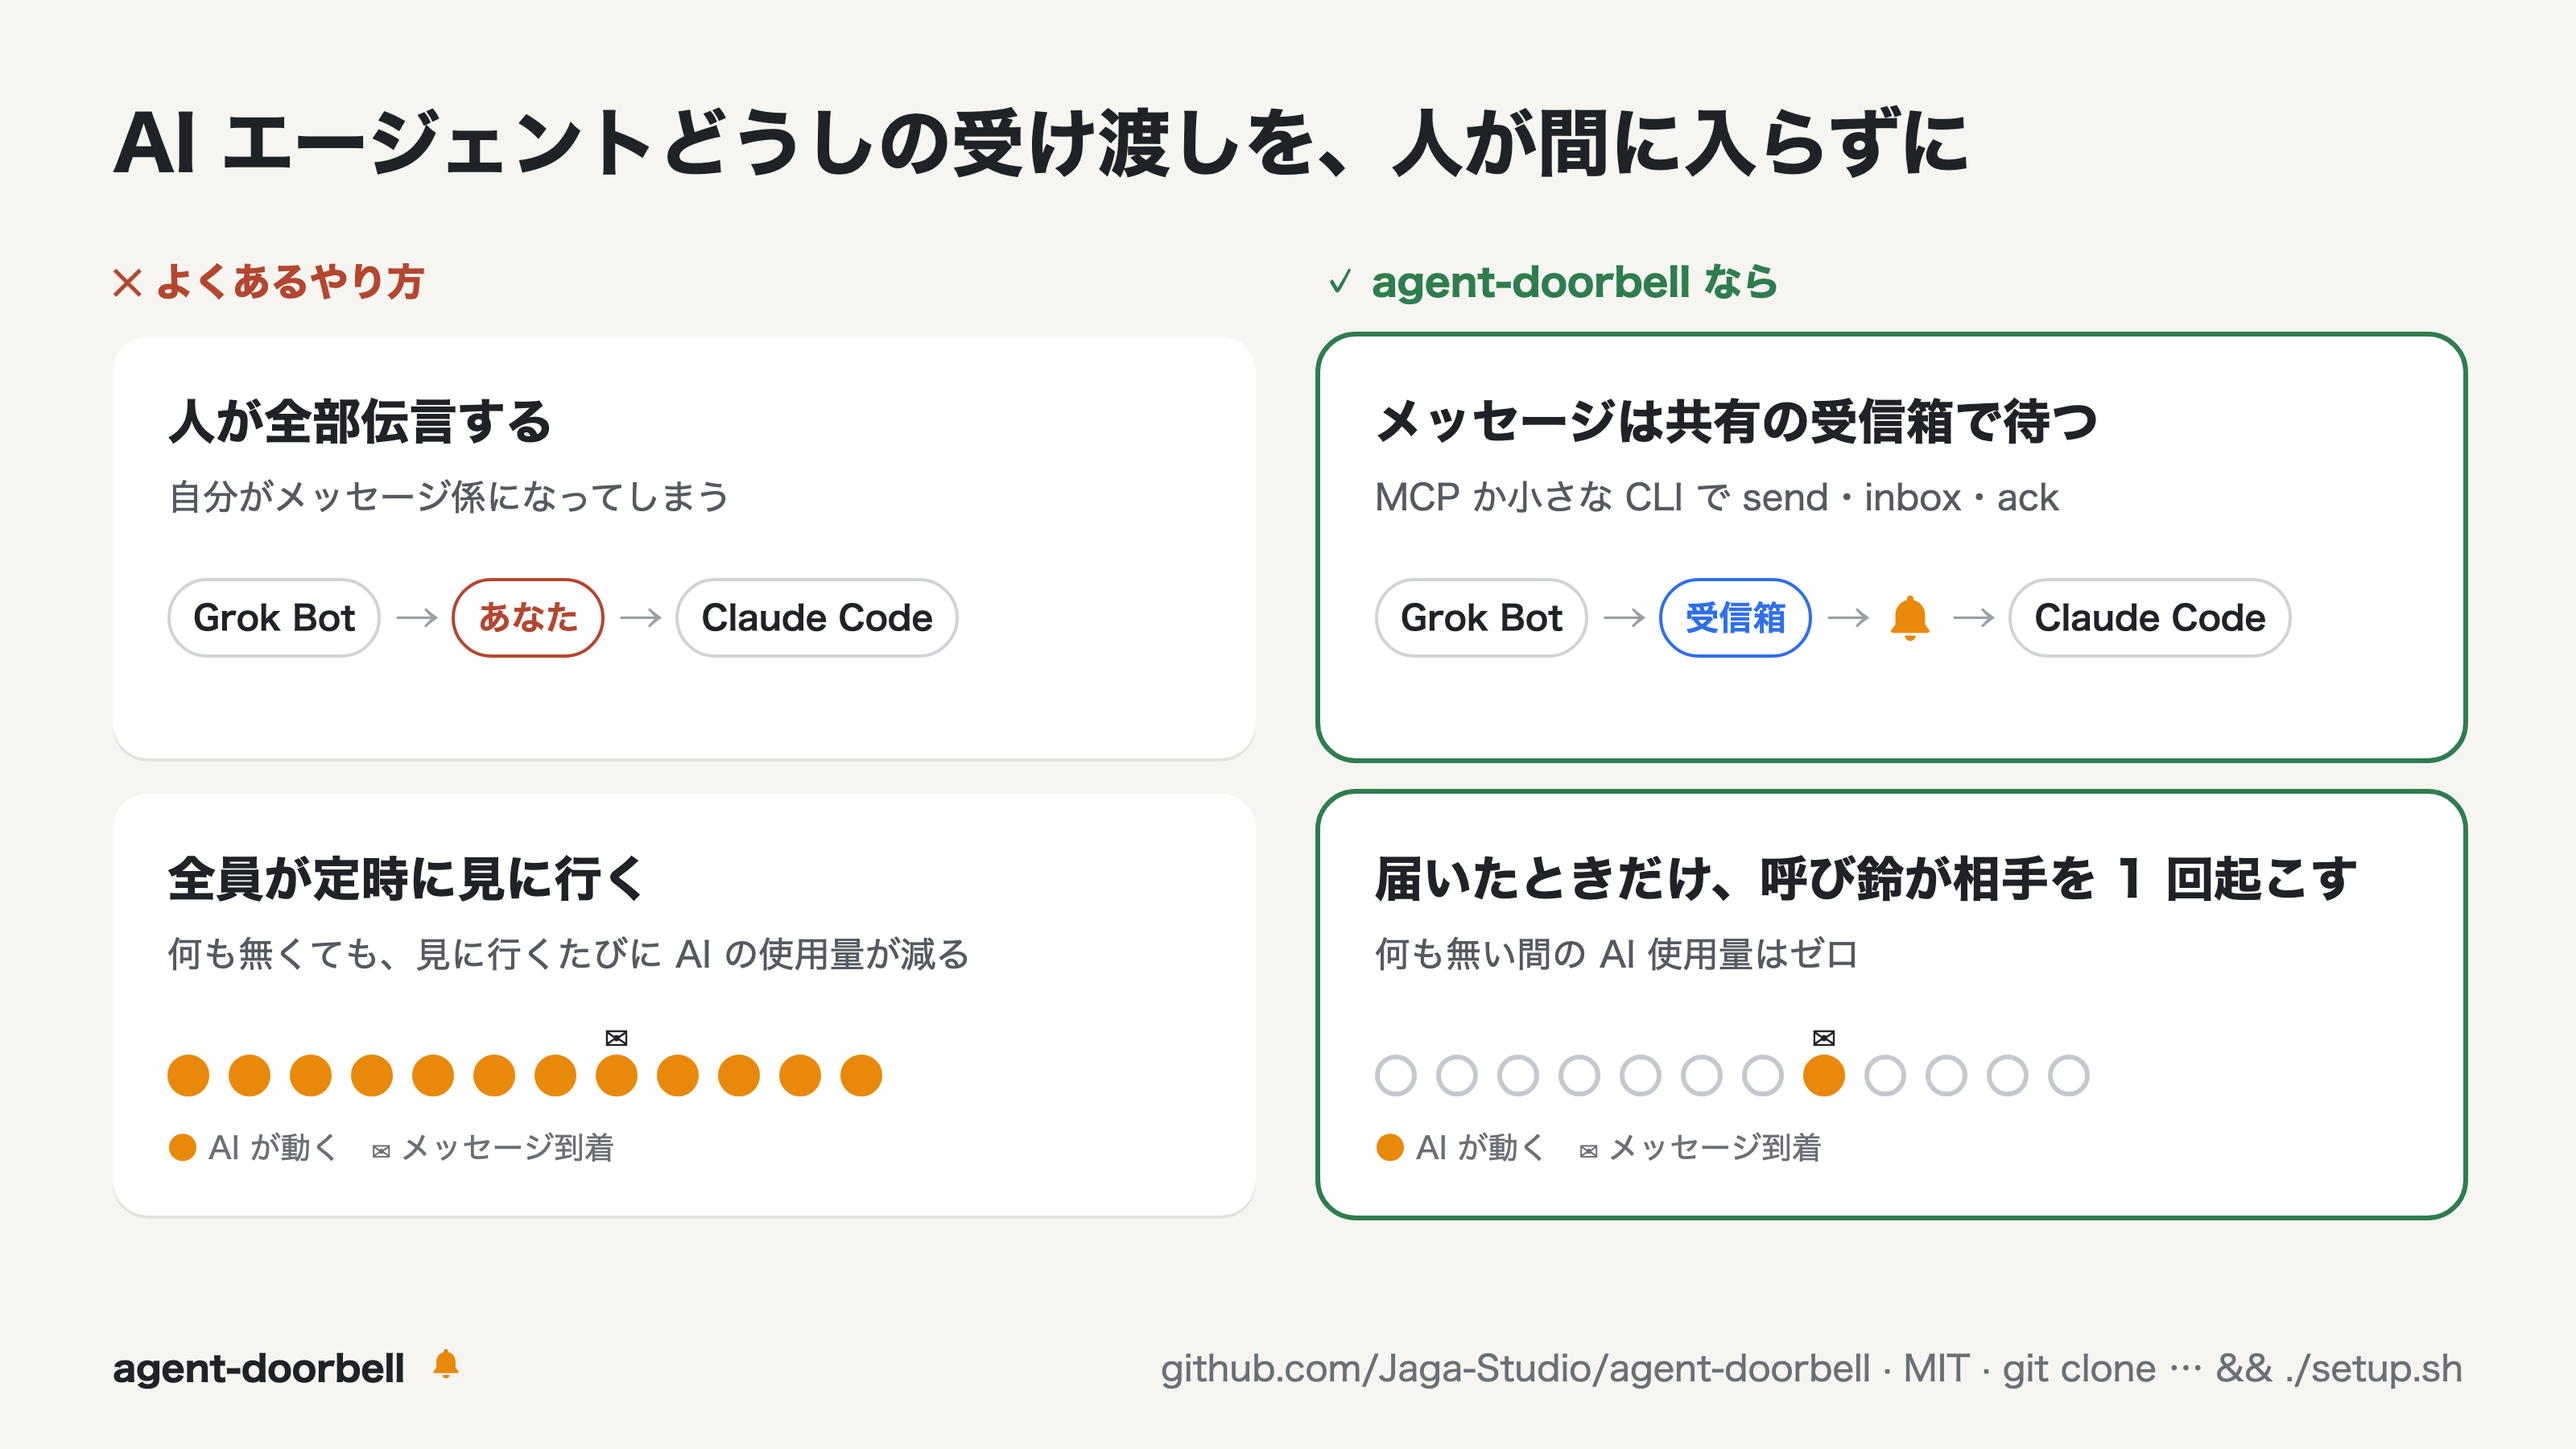
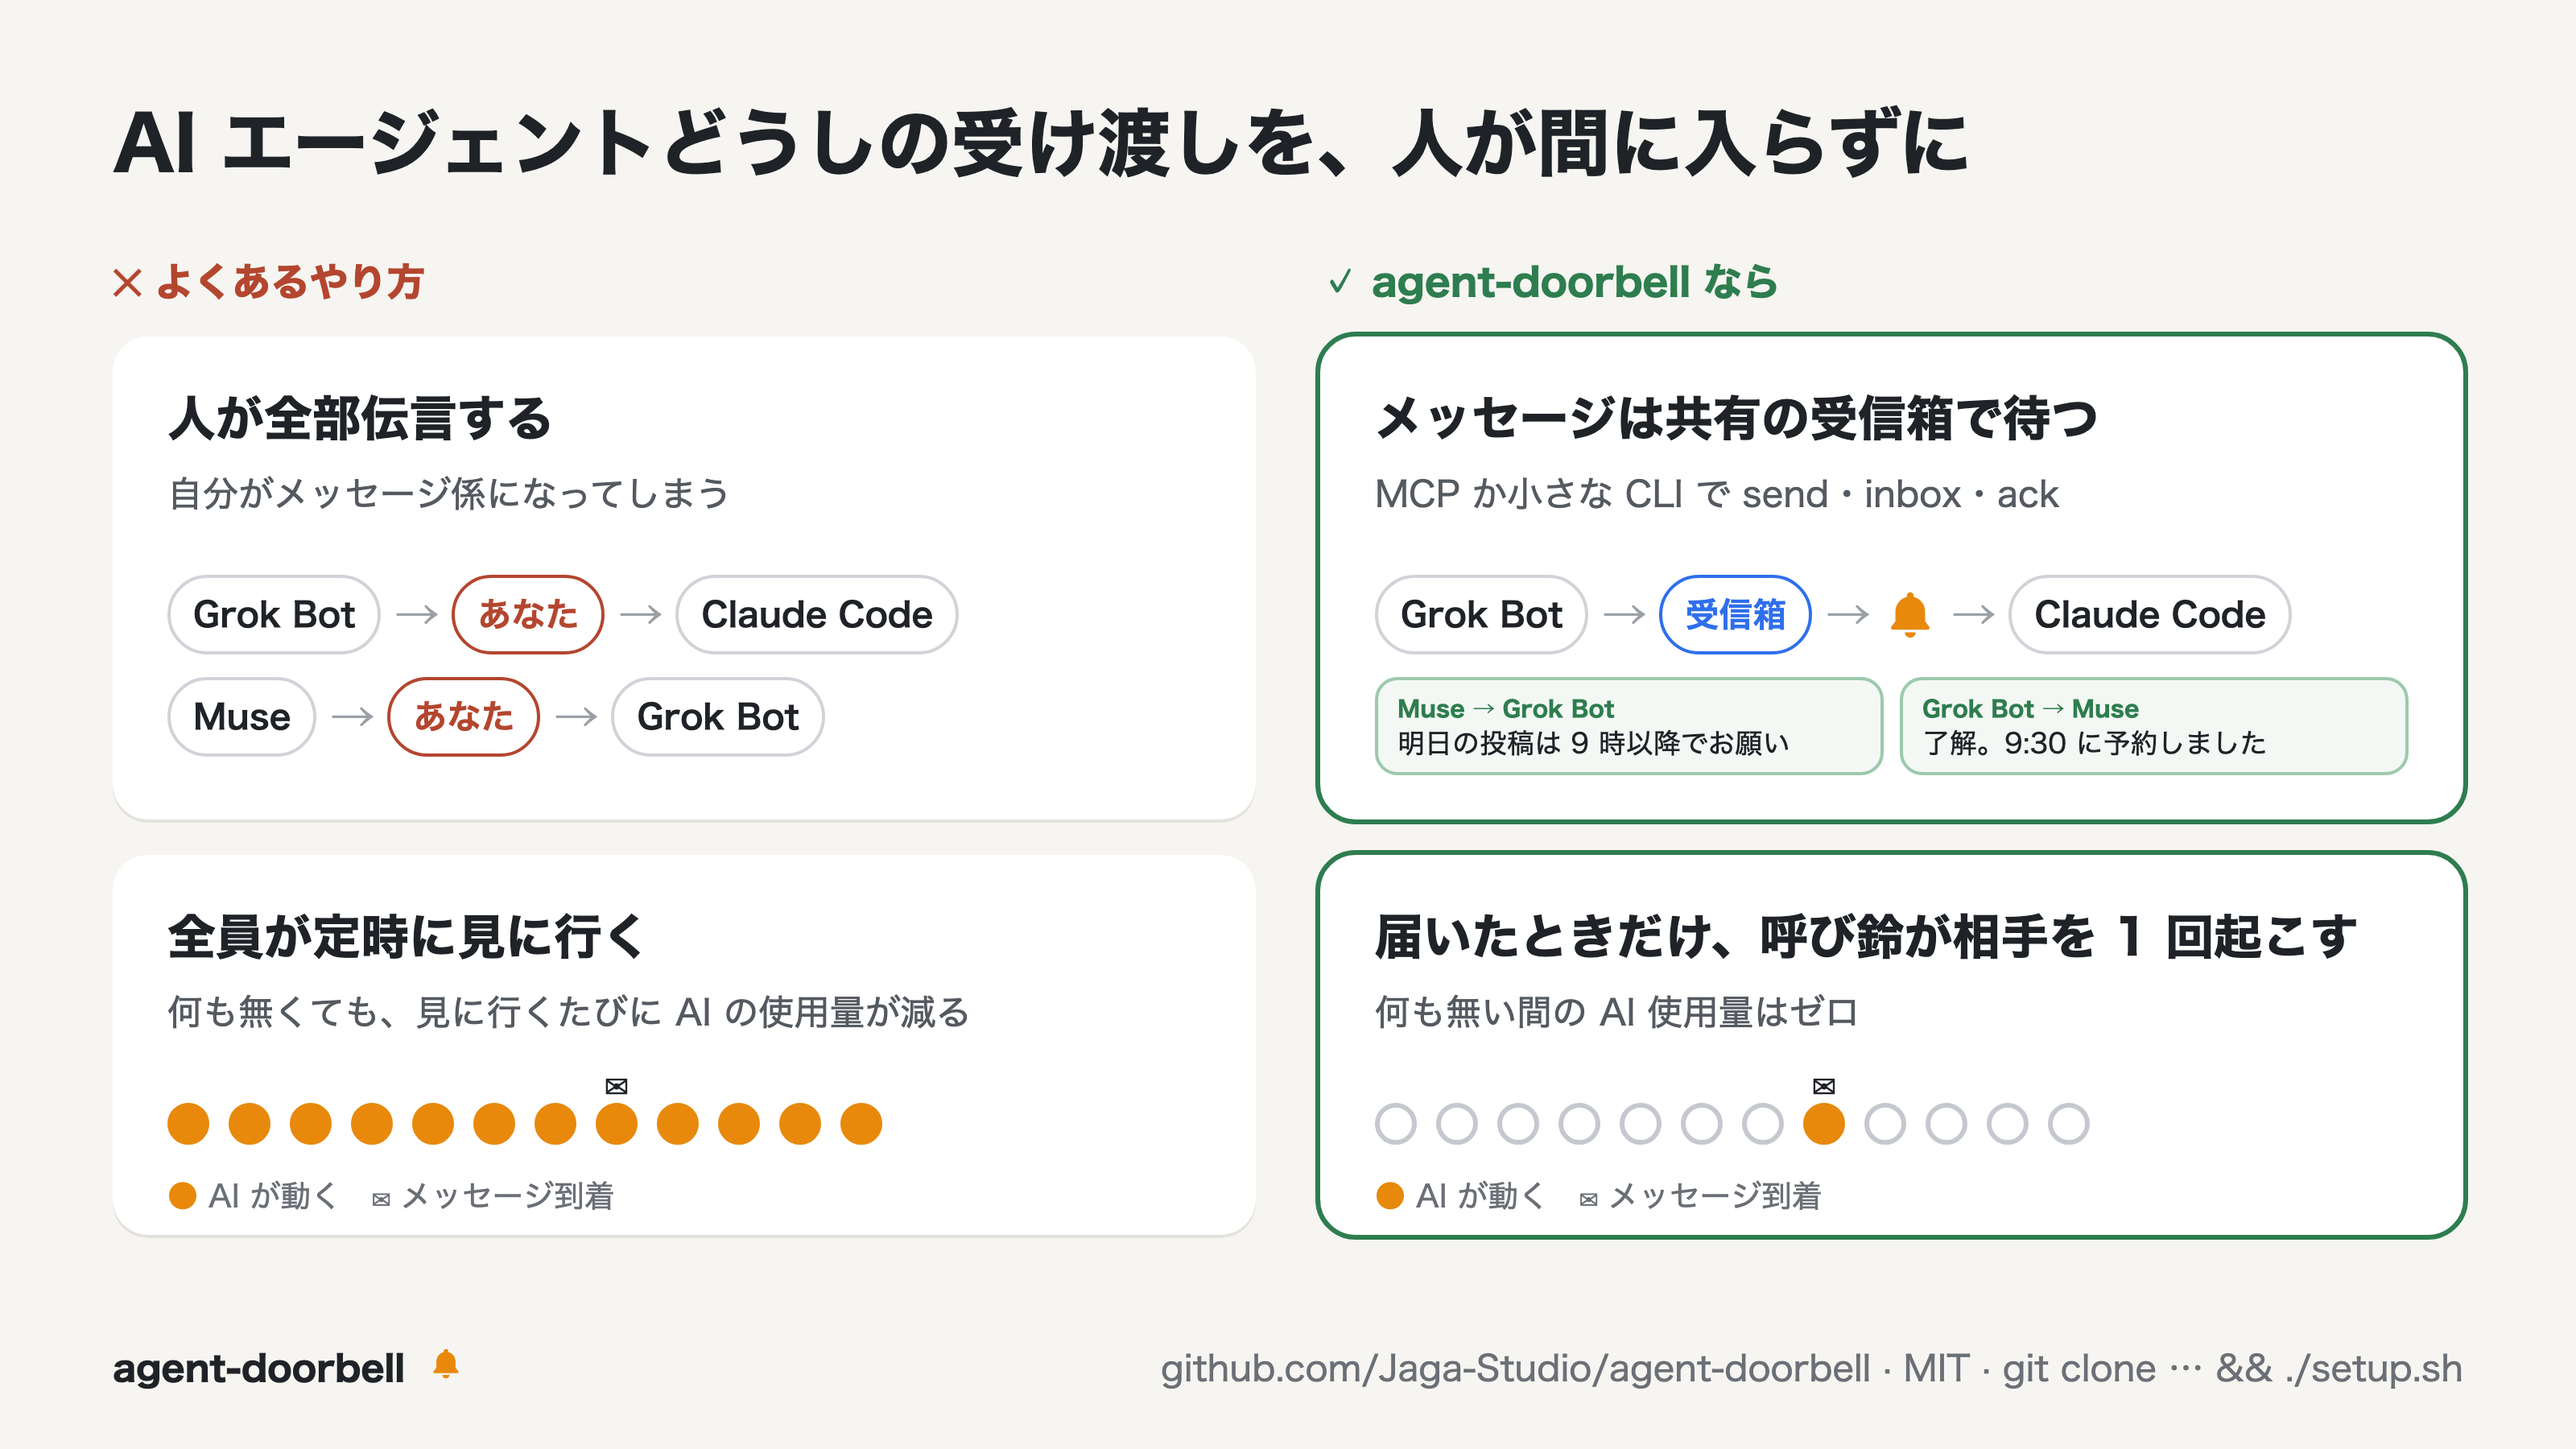
before-after image: show Muse and Grok Bot talking through the inbox

diff --git a/docs/images/src/build.py b/docs/images/src/build.py
@@ -18,6 +18,7 @@ T = {
   a1="Messages wait in a shared inbox", a1s="send · inbox · ack, over MCP or a tiny CLI",
   a2="Only a new message wakes an agent", a2s="Idle: zero model usage.",
   run="model run", msg="message arrives", inbox="inbox",
+  chat=[("Muse → Grok Bot", "Tomorrow's posts: after 9 am, please."), ("Grok Bot → Muse", "Got it. Scheduled for 9:30.")],
   agent_a="Grok Bot", agent_b="Claude Code",
   foot="github.com/Jaga-Studio/agent-doorbell · MIT · git clone … && ./setup.sh",
   ar_title="How agent-doorbell works",
@@ -38,6 +39,7 @@ T = {
   a1="メッセージは共有の受信箱で待つ", a1s="MCP か小さな CLI で send・inbox・ack",
   a2="届いたときだけ、呼び鈴が相手を 1 回起こす", a2s="何も無い間の AI 使用量はゼロ",
   run="AI が動く", msg="メッセージ到着", inbox="受信箱",
+  chat=[("Muse → Grok Bot", "明日の投稿は 9 時以降でお願い"), ("Grok Bot → Muse", "了解。9:30 に予約しました")],
   agent_a="Grok Bot", agent_b="Claude Code",
   foot="github.com/Jaga-Studio/agent-doorbell · MIT · git clone … && ./setup.sh",
   ar_title="agent-doorbell のしくみ",
@@ -77,24 +79,30 @@ def timeline(active_all, lang):
                     + ('<span style="position:absolute;top:-34px;left:50%;transform:translateX(-50%);font-size:24px">✉</span>' if hit else '') + '</span>')
     legend = (f'<div style="font-size:19px;color:#6B6F76;margin-top:12px"><span style="color:#E8890C">●</span> {t["run"]}'
               f' &nbsp; ✉ {t["msg"]}</div>')
-    return f'<div style="margin-top:46px">{"".join(dots)}</div>{legend}'
+    return f'<div style="margin-top:40px">{"".join(dots)}</div>{legend}'
 
 def before_after(lang):
     t = T[lang]
-    card = 'background:#fff;border-radius:22px;padding:30px 34px;height:262px;box-shadow:0 2px 0 #E4E2DC'
+    card = 'background:#fff;border-radius:22px;padding:28px 34px;height:300px;box-shadow:0 2px 0 #E4E2DC'
+    low = card.replace('height:300px', 'height:236px')
     h = 'font-size:30px;font-weight:700;margin-bottom:8px'
     s = 'font-size:22px;color:#555A61'
     a, b = t["agent_a"], t["agent_b"]
+    chat = "".join(f'<div style="flex:1;background:#F3F8F4;border:2px solid #9CC9AC;border-radius:14px;padding:7px 12px">'
+                   f'<div style="font-size:14px;font-weight:700;color:#2E7D4F">{who}</div>'
+                   f'<div style="font-size:17px;line-height:1.3">{text}</div></div>' for who, text in t["chat"])
     left = f'''
       <div style="font-size:24px;font-weight:700;color:#B4462F;margin-bottom:16px">✕ {t["before"]}</div>
       <div style="{card};margin-bottom:22px"><div style="{h}">{t["b1"]}</div><div style="{s}">{t["b1s"]}</div>
-        <div class="row" style="margin-top:34px"><span class="pill">{a}</span><span class="arrow">→</span><span class="pill" style="border-color:#B4462F;color:#B4462F">{t["you"]}</span><span class="arrow">→</span><span class="pill">{b}</span></div></div>
-      <div style="{card}"><div style="{h}">{t["b2"]}</div><div style="{s}">{t["b2s"]}</div>{timeline(True, lang)}</div>'''
+        <div class="row" style="margin-top:34px"><span class="pill">{a}</span><span class="arrow">→</span><span class="pill" style="border-color:#B4462F;color:#B4462F">{t["you"]}</span><span class="arrow">→</span><span class="pill">{b}</span></div>
+        <div class="row" style="margin-top:14px"><span class="pill">Muse</span><span class="arrow">→</span><span class="pill" style="border-color:#B4462F;color:#B4462F">{t["you"]}</span><span class="arrow">→</span><span class="pill">Grok Bot</span></div></div>
+      <div style="{low}"><div style="{h}">{t["b2"]}</div><div style="{s}">{t["b2s"]}</div>{timeline(True, lang)}</div>'''
     right = f'''
       <div style="font-size:24px;font-weight:700;color:#2E7D4F;margin-bottom:16px">✓ {t["after"]}</div>
       <div style="{card};margin-bottom:22px;outline:3px solid #2E7D4F"><div style="{h}">{t["a1"]}</div><div style="{s}">{t["a1s"]}</div>
-        <div class="row" style="margin-top:34px"><span class="pill">{a}</span><span class="arrow">→</span><span class="pill" style="border-color:#2F6FEB;color:#2F6FEB">{t["inbox"]}</span><span class="arrow">→</span>{BELL.format(s=34)}<span class="arrow">→</span><span class="pill">{b}</span></div></div>
-      <div style="{card};outline:3px solid #2E7D4F"><div style="{h}">{t["a2"]}</div><div style="{s}">{t["a2s"]}</div>{timeline(False, lang)}</div>'''
+        <div class="row" style="margin-top:34px"><span class="pill">{a}</span><span class="arrow">→</span><span class="pill" style="border-color:#2F6FEB;color:#2F6FEB">{t["inbox"]}</span><span class="arrow">→</span>{BELL.format(s=34)}<span class="arrow">→</span><span class="pill">{b}</span></div>
+        <div style="margin-top:14px;display:flex;gap:10px">{chat}</div></div>
+      <div style="{low};outline:3px solid #2E7D4F"><div style="{h}">{t["a2"]}</div><div style="{s}">{t["a2s"]}</div>{timeline(False, lang)}</div>'''
     body = f'''<div class="title">{t["ba_title"]}</div>
       <div style="display:flex;gap:40px;padding:34px 70px 0">
         <div style="flex:1">{left}</div><div style="flex:1">{right}</div></div>
